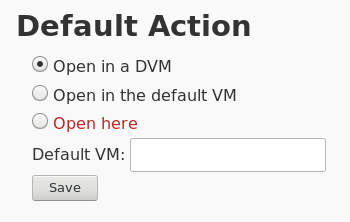
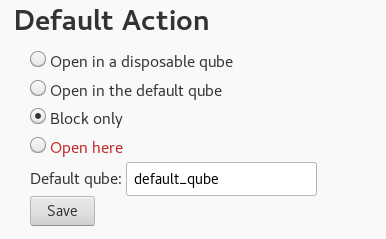
Default policy to block only. Updated every files consistently.

diff --git a/common/html/welcome.html b/common/html/welcome.html
@@ -14,7 +14,7 @@
     <main>
       <h1> Welcome! </h1>
       Hi, and thanks for installing <b>Open in Qube</b>! This page will help you to use this extension effectively. <br>
-      "Open in Qube" is a browser extension that <em>block and redirect to another Qube, URL that doesn't match against a <a href="#whitelist">whitelist</a> entry</em>.
+      "Open in Qube" is a browser extension that <em>block and eventually redirect to another qube, URLs that doesn't match against a <a href="#whitelist">whitelist</a> entry</em>.
 
       <article id="toolbar_button">
 	<h2> Usage: Toolbar button </h2>
@@ -26,16 +26,16 @@
 
       <article id="settings">
 	<h2> Usage: Settings </h2>
-	Through the settings page you can customize the default responsible Qube. It could be a disposable Qube or a specific Qube. Furthermore it's possible to disable the extension entirely. The default is a disposable Qube. <br>
+	Through the settings page you can customize how the extension handle non whitelisted URLs. By default it blocks the request without redirection. However you could customize this behavior. Indeed it could redirect to a disposable qube or to a specific one. Furthermore it could be disabled completely. <br>
 	Here a screenshot of the settings section that rule with this behavior:
-	<img id="default_action" src="../screenshots/default_action.png" alt="The settings page has a &quot;default action&quot; section where you can customize the default responsible Qube"> <br>
+	<img id="default_action" src="../screenshots/default_action.png" alt="The settings page has a &quot;default action&quot; section where you can customize how the extension handle non whitelsited URLs"> <br>
       </article>
 
       <article id="whitelist">
 	<h2> Usage: Whitelist </h2>
-	The whitelist is the most critical part of the extension. It allows you to specify if an URL will be opened in the <em>current Qube</em>. Every whitelist entries could be associated with a descriptive label. <br>
-	Initially the whitelist is empty. So <em>every</em> URL will be blocked and redirected. For this reason before you start to surf the web you should start to populate the whitelist. <br>
-	The whitelist is accessible through the settings page and its entries are of three types. Furthermore you can specify if every linked resource with a permitted URL will be permitted. <br>
+	The whitelist is the most critical part of the extension. It allows you to specify if an URL will be opened in the <em>current qube</em>. Furthermore you can assign a descriptive label and a trust level to the whitelist entries. <br>
+	Initially the whitelist is empty. So <em>every</em> URL will be blocked. For this reason before you start to surf the web you should start to populate the whitelist. <br>
+	The whitelist is accessible through the settings page and its entries are of three types. <br>
 	The three types of entries are:
 	<ul>
 	  <li> RegExp </li>
@@ -63,10 +63,10 @@
 	  <h3> The "URL" type </h3>
 	  This type allows you to add an entry specifying URL's componenent. Specifically:
 	  <ul>
-	    <li> Scheme, it can also be ignored. So every scheme will match </li>
+	    <li> Scheme, http or https. It's optional. </li>
 	    <li> Host, it supports: IPv4, IPv6 and DNS name </li>
-	    <li> Port </li>
-	    <li> Pathname, query string and fragment </li>
+	    <li> Port. It's optional </li>
+	    <li> Pathname, query string and fragment. It's optional </li>
 	  </ul>
 	  <br>
 	  Here a screenshot of the input fields:

diff --git a/common/html/settings.html b/common/html/settings.html
@@ -10,7 +10,7 @@
       <h1> Default Action </h1>
       <form id="settings" autocomplete="off">
 	<label>
-	  <input type="radio" name="default_action" value="0" checked> Open in a disposable qube
+	  <input type="radio" name="default_action" value="0"> Open in a disposable qube
 	</label>
 
 	<label>
@@ -18,7 +18,7 @@
 	</label>
 
 	<label>
-	  <input type="radio" name="default_action" value="3"> Block only
+	  <input type="radio" name="default_action" value="3" checked> Block only
 	</label>
 
 	<label class="dangerous">
@@ -60,10 +60,11 @@
 	<div id="entry_spec">
 	  <div class="entry_spec_url">
 	    <label for="scheme"> Scheme: </label>
-	    <input type="text" id="scheme" name="scheme" size="64" value="" placeholder="Default is https">
+            <em> http or https </em>
+	    <input type="text" id="scheme" name="scheme" size="64" value="" placeholder="Default is https.">
 
 	    <!-- <label class="inline warning"> -->
-	    <!--   <input type="checkbox" name="all_schemes"> Whitelist every schemes -->
+	    <!--   <input type="checkbox" name="all_schemes"> Whitelist every scheme -->
 	    <!-- </label> -->
 	  </div>
 
@@ -79,7 +80,7 @@
 
 	  <div class="entry_spec_url">
 	    <label for="url_remaining"> URL Remaining: </label>
-            <em> If it terminates with a /, it matches every resource in that directory (including subdir). If empty every resource. Otherwise it matches the exact resource. </em>
+            <em> If it terminates with a /, it matches every resource in that directory (including subdir). If empty it matches every resource. Otherwise it matches the exact resource. </em>
 	    <input type="text" id="url_remaining" name="path_query_fragment" size="64" value="" placeholder="e.g. /some/path?x=y#z.">
 	  </div>
 
@@ -91,7 +92,7 @@
           <div>
             <label class="warning">
               <input type="checkbox" name="origin_url_trust" value="0">
-              Trust every resources loaded in the document whose URL matches <strong>this</strong> entry.
+              Trust every resource loaded in the document whose URL matches against <strong>this</strong> entry.
             </label>
           </div>
         </div>

diff --git a/common/js/backend/core/settings.js b/common/js/backend/core/settings.js
@@ -28,7 +28,7 @@
     });
 
     const _settings = {
-        default_action: ACTION.DVM,
+        default_action: ACTION.BLOCK_ONLY,
         default_vm: null
     };
 
